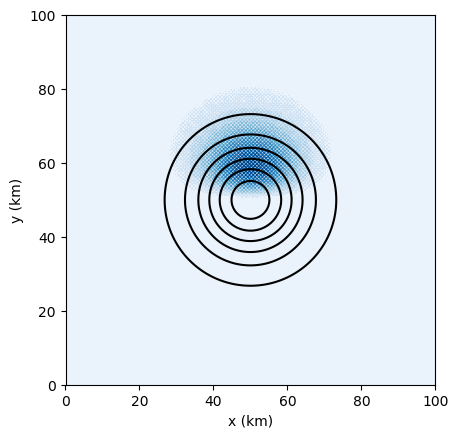
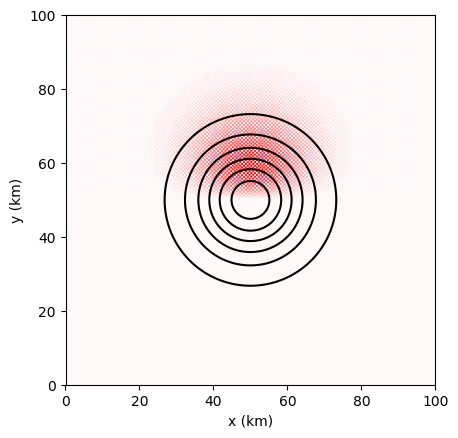
modif topo

Changed region(s): [[0.3668, 0.1781, 0.7336, 0.4749]]

diff --git a/eddy_iwave/input/mygendata.py b/eddy_iwave/input/mygendata.py
@@ -13,8 +13,8 @@ flag_plot = 1
 
 #% ================== NEW GRID =====================================
 
-si_x = 1000
-si_y = 1000
+si_x = 1024
+si_y = 1024
 si_z = 100
 
 
@@ -109,7 +109,7 @@ topog = -H + topog
 
 lt = 1e3 # topo wave length
 Ht = 80 # topo max height
-topog = topog + Ht*(1+np.sin(2*np.pi*xg/lt)*np.sin(2*np.pi*yg/lt))
+topog = topog + Ht*(1 + np.sin(2*np.pi*xg/lt)*np.sin(2*np.pi*yg/lt))
 
 # # physical constants
 rho_const = 999.8
@@ -219,7 +219,7 @@ theta = theta_a + temp_i
 # readjust topog to be only in a sector of the eddy
 masktopo = uvel[0,:,:]/np.max(uvel[0,:,:])
 masktopo = np.where(masktopo<0,0,masktopo)
-topog = (topog + H)*masktopo - H
+topog = (topog + H - Ht)*masktopo - H + Ht
 
 uvel.astype(binprec).tofile('uinit.box')
 vvel.astype(binprec).tofile('vinit.box')
@@ -278,3 +278,12 @@ obcsmask[:,-1] = 0
 obcsmask[-1:]  = 0
 
 # obcsmask.astype(binprec).tofile('obcsmask.box')
+
+plt.figure()
+plt.subplot(111, aspect='equal')
+plt.contourf(xg*1e-3,yg*1e-3,topog,50,cmap=plt.cm.bwr)
+plt.contour(xg*1e-3,yg*1e-3,eta,colors='k')
+plt.xlabel('x (km)')
+plt.ylabel('y (km)')
+
+plt.savefig('eddy-iwave.png',bbox_inches='tight')

diff --git a/eddy_iwave/code/SIZE.h b/eddy_iwave/code/SIZE.h
@@ -37,14 +37,14 @@ C     Nr  - No. points in Z for full process domain.
       INTEGER Ny
       INTEGER Nr
       PARAMETER (
-     &           sNx =  100,
-     &           sNy =  100,
+     &           sNx =  64,
+     &           sNy =  64,
      &           OLx =   2,
      &           OLy =   2,
      &           nSx =   1,
      &           nSy =   1,
-     &           nPx =   10,
-     &           nPy =   10,
+     &           nPx =   16,
+     &           nPy =   16,
      &           Nx  = sNx*nSx*nPx,
      &           Ny  = sNy*nSy*nPy,
      &           Nr  =  100)
